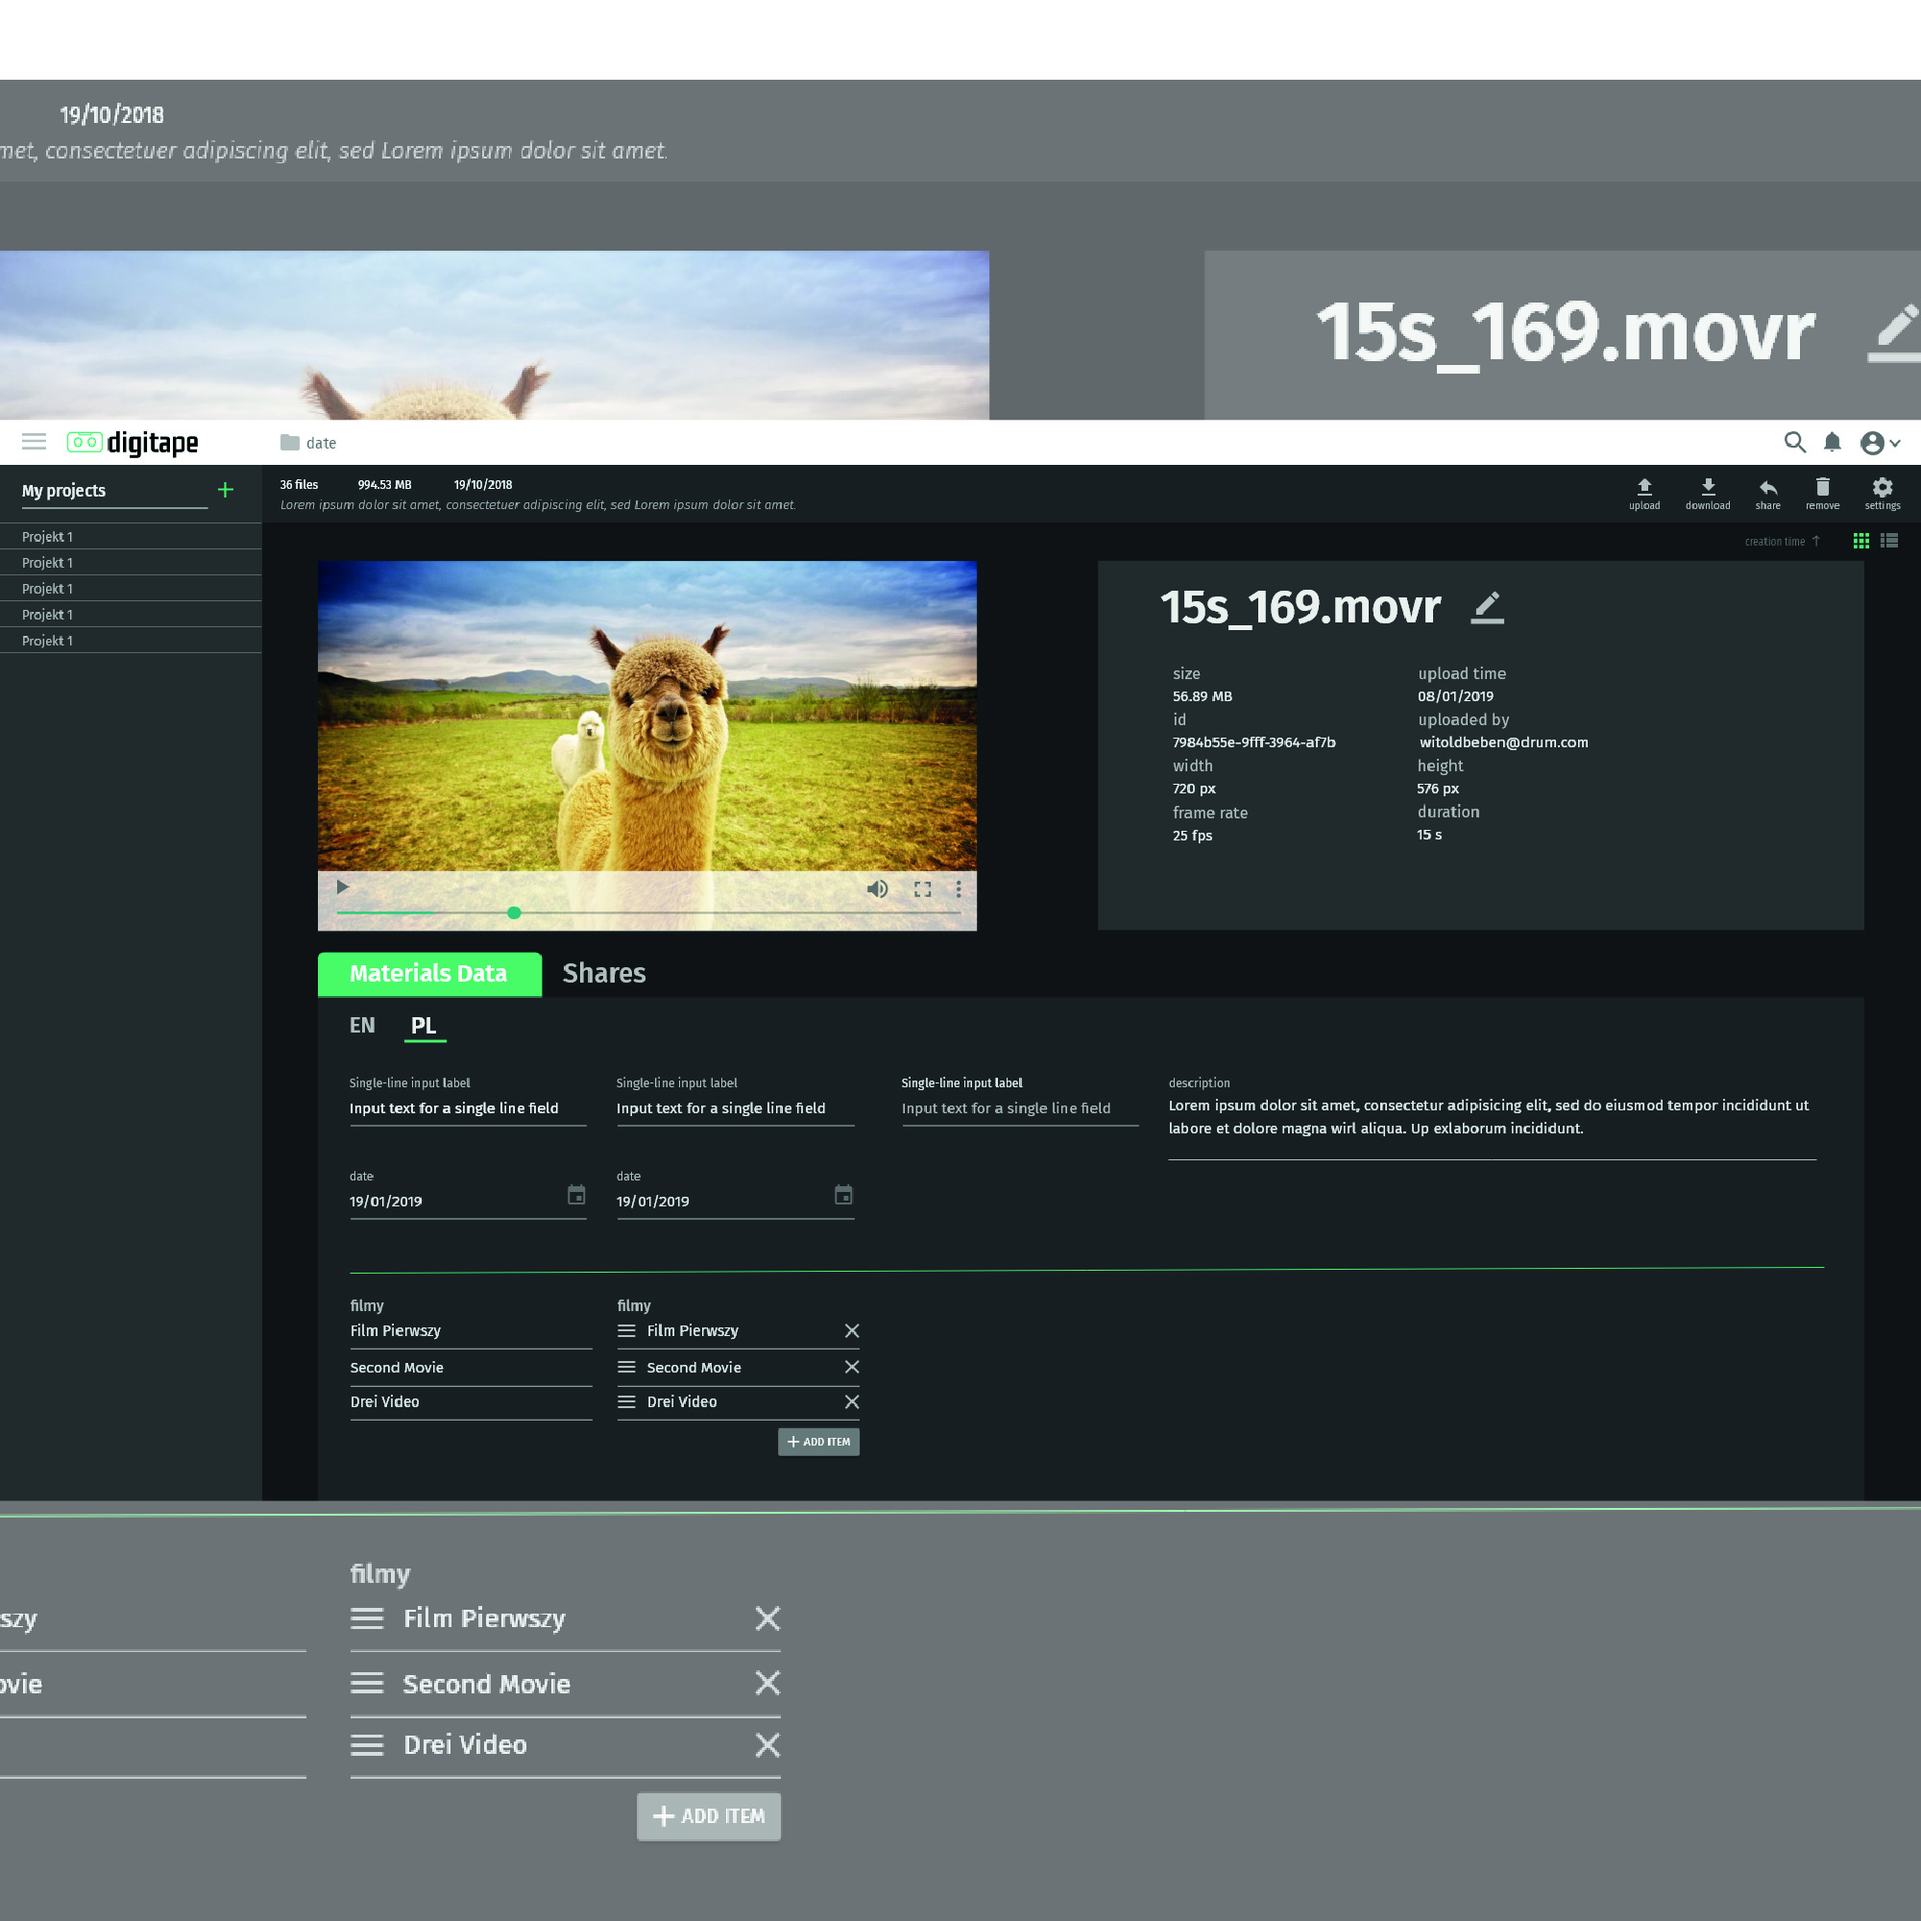
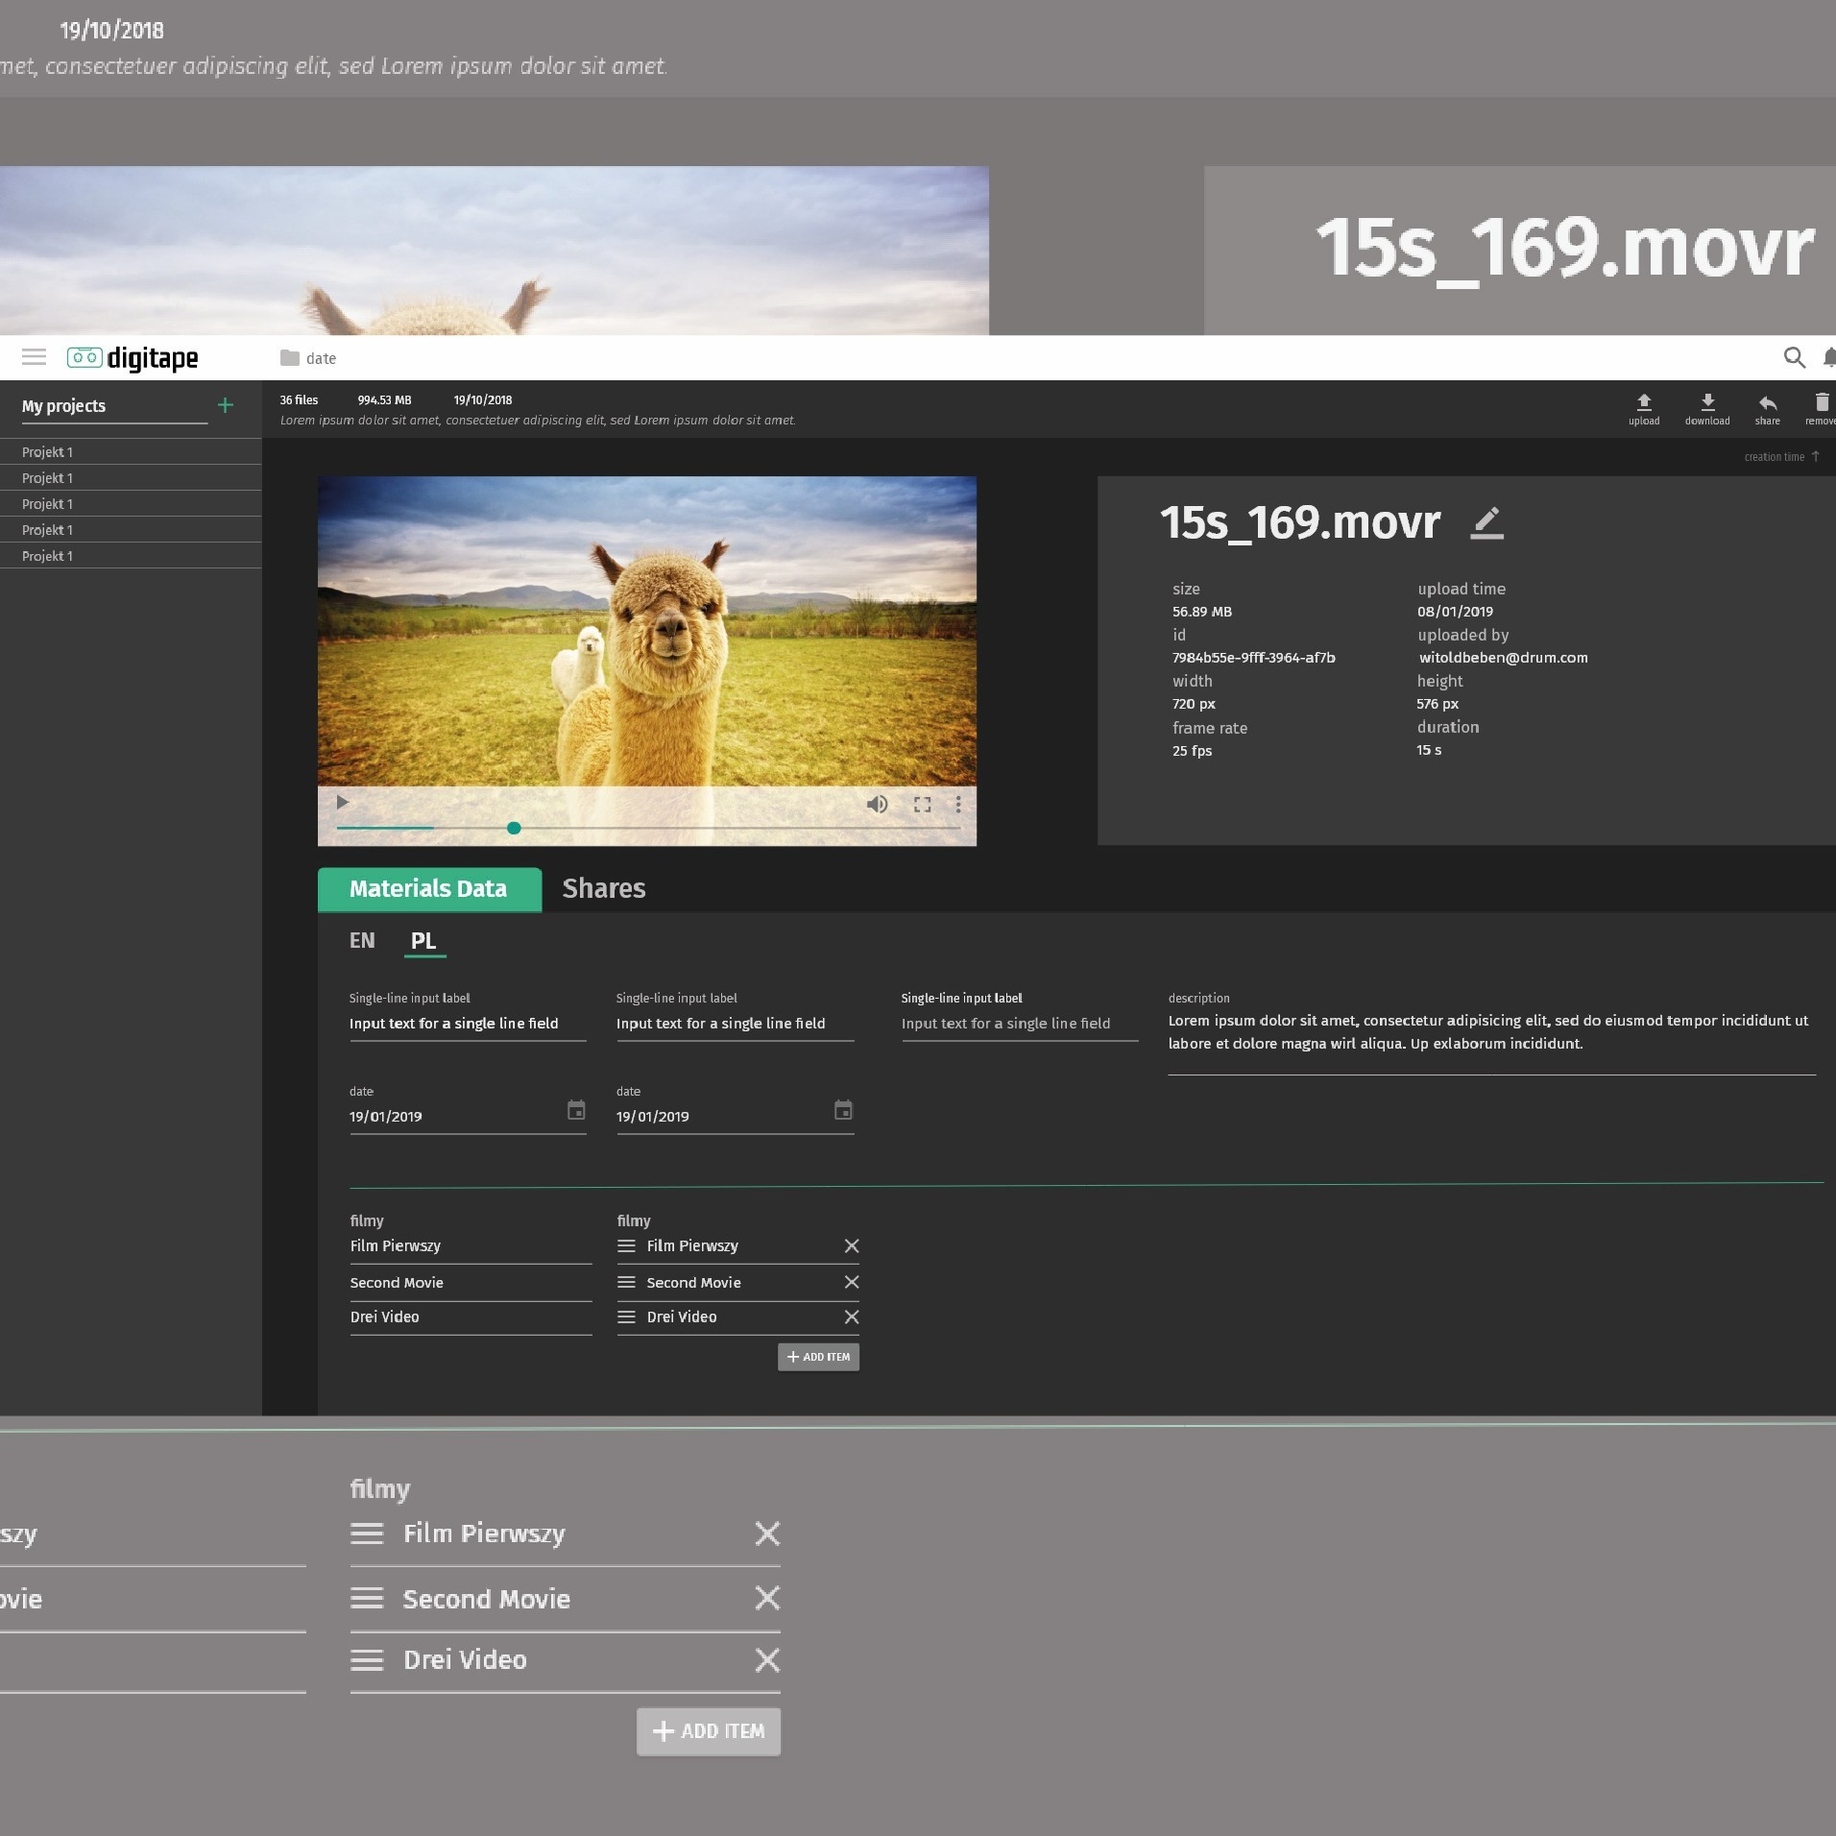
eager loding for images

diff --git a/src/ui/molecules/Media/Media.tsx b/src/ui/molecules/Media/Media.tsx
@@ -16,16 +16,15 @@ const useImage = (src: string) => {
 
 export const Media = ({ url, className }: MediaProps) => {
   const loaded = useImage(url);
+  const isVideo = url.includes("youtube");
   return (
     <div className="self-center items-center justify-center ease-in-out transition-all animate-fadeIn">
       <div
         className={twMerge("grid grid-flow-col auto-cols-1-slides", className)}
       >
-        {url.includes("youtube") ? (
-          <VideoPlayer src={url} />
-        ) : loaded ? (
+        {isVideo && <VideoPlayer src={url} />}
+        {!isVideo && loaded && (
           <img
-            style={{ opacity: loaded ? 1 : 0.5 }}
             className={twMerge(
               "xl:max-h-auto w-full object-cover ease-in-out transition-all animate-fadeIn",
               className,
@@ -36,7 +35,8 @@ export const Media = ({ url, className }: MediaProps) => {
             height="900"
             loading="eager"
           />
-        ) : (
+        )}
+        {!loaded && !isVideo && (
           <div className="flex justify-center content-center">
             <ArrowPathIcon className="animate-spin h-3 w-3" />
           </div>

diff --git a/src/const/const.ts b/src/const/const.ts
@@ -53,6 +53,7 @@ export const projects: ProjectProps[] = [
       "/images/szablony/3.jpg",
       "/images/szablony/4.jpg",
       "/images/szablony/5.jpg",
+      "https://www.youtube.com/embed/p6aZ3A-bI8w?si=i2V8-v5qP-dkl3nL",
     ],
   },
   {
@@ -172,6 +173,7 @@ export const projects: ProjectProps[] = [
     date: "2022",
     assets: [
       "/images/starszysyny/2.png",
+      "https://www.youtube.com/embed/mV48BrIWMV0?si=647G-BpwORHj1BCi",
       "https://www.youtube.com/embed/yNHWXxynUvs?si=CzwmKeGxdf3WiGVe",
       "https://www.youtube.com/embed/eSEA0T1byN0?si=ZdCw11WU-JnKKoE_",
     ],
@@ -280,9 +282,10 @@ export const projects: ProjectProps[] = [
   {
     section: Section.Art,
     name: "garbate lemury",
-    date: "2017",
+    date: "2010-2025",
     assets: [
       "https://www.youtube.com/embed/pQSvhxqT9i4?si=NOUgw67O6_UaUqt2",
+      "https://www.youtube.com/embed/1_OhXSdOF8M?si=0mTSbqcD0KdNd6KT",
       "/images/garbate_lemury/1.jpg",
       "/images/garbate_lemury/2.jpg",
       "/images/garbate_lemury/3.jpg",

diff --git a/src/ui/molecules/Section/Section.tsx b/src/ui/molecules/Section/Section.tsx
@@ -121,7 +121,7 @@ export const Section = ({
                       <div className="flex gap-2">
                         {project?.tags?.map((tag) => (
                           <Text
-                            className="lowercase opacity-50 label-s xl:label-m"
+                            className="lowercase opacity-50 paragraph-s"
                             text={`#${tag}`}
                           />
                         ))}
@@ -135,7 +135,7 @@ export const Section = ({
       </div>
       <div
         className={twMerge(
-          "aspect-square w-100 hidden xl:block xl:relative xl:sticky top-12 col-span-2 xl:col-span-6",
+          "aspect-square w-100 hidden xl:block xl:sticky top-12 col-span-2 xl:col-span-6",
           index % 2 == 1 && "order-first",
         )}
       >
